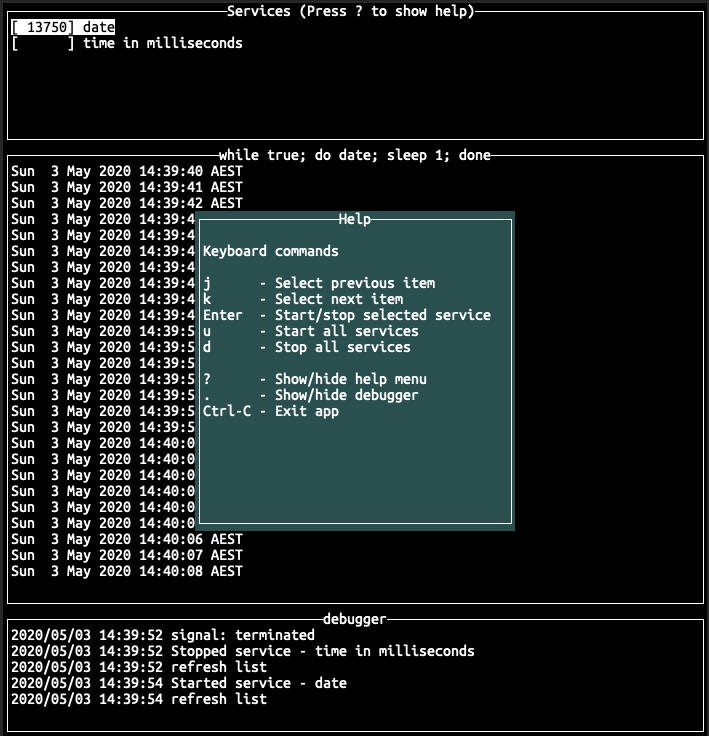
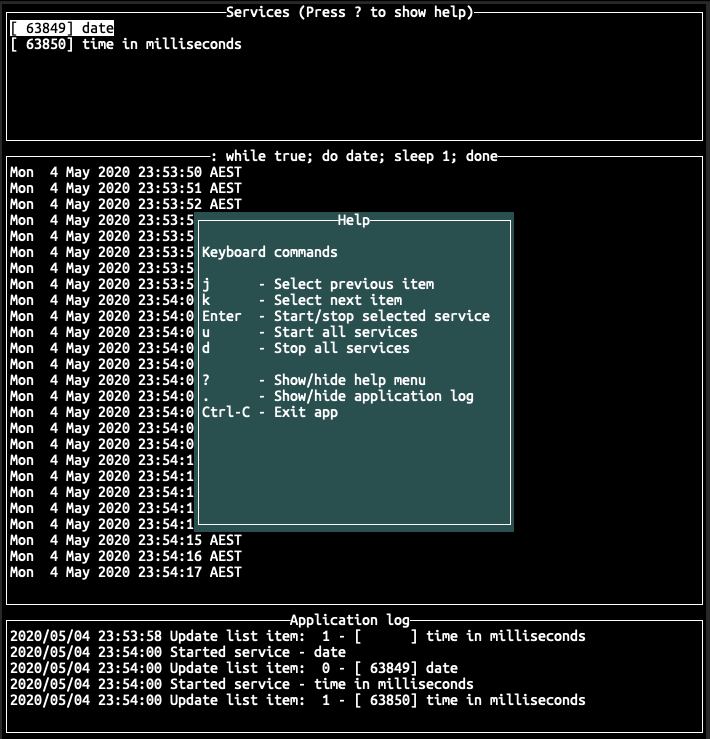
Only write app log to file in debug mode

Changed region(s): [[0.0, 0.0, 1.0, 1.0], [0.4654, 0.2812, 0.5275, 0.3125]]

diff --git a/src/manager.go b/src/manager.go
@@ -26,6 +26,7 @@ var mu sync.Mutex
 
 func init() {
 	flag.StringVar(&configFile, "c", "./prockeeper.yml", "config file")
+	flag.BoolVar(&debug, "debug", false, "Show usage")
 }
 
 func (manager *Manager) updateListItem(index int) {
@@ -65,12 +66,13 @@ func (manager *Manager) Run() {
 	manager.list = list
 	list.SetTitle("Services (Press ? to show help)").SetBorder(true)
 
-	debugger := tview.NewTextView().
+	appLogOn := false
+	appLog := tview.NewTextView().
 		SetDynamicColors(true).
 		SetChangedFunc(func() {
 			app.Draw()
 		})
-	debugger.SetTitle("debugger").SetBorder(true)
+	appLog.SetTitle("Application log").SetBorder(true)
 
 	serviceLog := tview.NewTextView().
 		SetDynamicColors(true).
@@ -93,16 +95,17 @@ func (manager *Manager) Run() {
 	appContainer.AddItem(serviceLog, 0, 6, true)
 	layout.AddItem(appContainer, 0, 5, false)
 
-	debuggerContainer := tview.NewFlex()
-	debuggerContainer.AddItem(debugger, 0, 1, true)
+	appLogContainer := tview.NewFlex()
+	appLogContainer.AddItem(appLog, 0, 1, true)
 
-	appLog, err := os.OpenFile("/tmp/prockeeper.log", os.O_RDWR|os.O_CREATE|os.O_APPEND, 0666)
-	CheckError(err)
-
-	defer appLog.Close()
-
-	logger := log.New(io.MultiWriter(debugger, appLog), "", log.LstdFlags)
-	manager.logger = logger
+	if debug {
+		logfile, err := os.OpenFile("./prockeeper.log", os.O_RDWR|os.O_CREATE|os.O_APPEND, 0666)
+		CheckError(err)
+		defer logfile.Close()
+		manager.logger = log.New(io.MultiWriter(appLog, logfile), "", log.LstdFlags)
+	} else {
+		manager.logger = log.New(appLog, "", log.LstdFlags)
+	}
 
 	updated := make(chan int)
 	go func() {
@@ -112,7 +115,7 @@ func (manager *Manager) Run() {
 	}()
 
 	for i, s := range config.Services {
-		service := NewService(i, s.Name, s.Command, s.Dir, updated, logger, serviceLog)
+		service := NewService(i, s.Name, s.Command, s.Dir, updated, manager.logger, serviceLog)
 		manager.Services = append(manager.Services, service)
 		manager.list.AddItem(service.NameWithPid(), "", 0, nil)
 	}
@@ -156,13 +159,13 @@ func (manager *Manager) Run() {
 			return nil
 		}
 		if event.Rune() == '.' {
-			if debug {
-				layout.RemoveItem(debuggerContainer)
-				debug = false
+			if appLogOn {
+				layout.RemoveItem(appLogContainer)
+				appLogOn = false
 			} else {
-				layout.AddItem(debuggerContainer, 0, 1, false)
-				debugger.ScrollToEnd()
-				debug = true
+				layout.AddItem(appLogContainer, 0, 1, false)
+				appLog.ScrollToEnd()
+				appLogOn = true
 			}
 		}
 		if event.Rune() == 'j' {

diff --git a/src/help.go b/src/help.go
@@ -11,6 +11,7 @@ import (
 const usage = `usage: prockeeper [options]
 
   --help          Show this help
+  --debug         Write application log to ./prockeeper.log
   -c path_to_yml  Specify the path of yaml file (default: './prockeeper.yml')
 
 Service Options:
@@ -37,7 +38,7 @@ u      - Start all services
 d      - Stop all services
 
 ?      - Show/hide help menu
-.      - Show/hide debugger
+.      - Show/hide application log
 Ctrl-C - Exit app
 `
 

diff --git a/README.md b/README.md
@@ -16,6 +16,7 @@ A process manager app written in go.
 usage: prockeeper [options]
 
   --help          Show this help
+  --debug         Write application log to ./prockeeper.log
   -c path_to_yml  Specify the path of yaml file (default: './prockeeper.yml')
 
 Service Options:
@@ -40,6 +41,6 @@ u      - Start all services
 d      - Stop all services
 
 ?      - Show/hide help menu
-.      - Show/hide debugger
+.      - Show/hide application log
 Ctrl-C - Exit app
 ```
